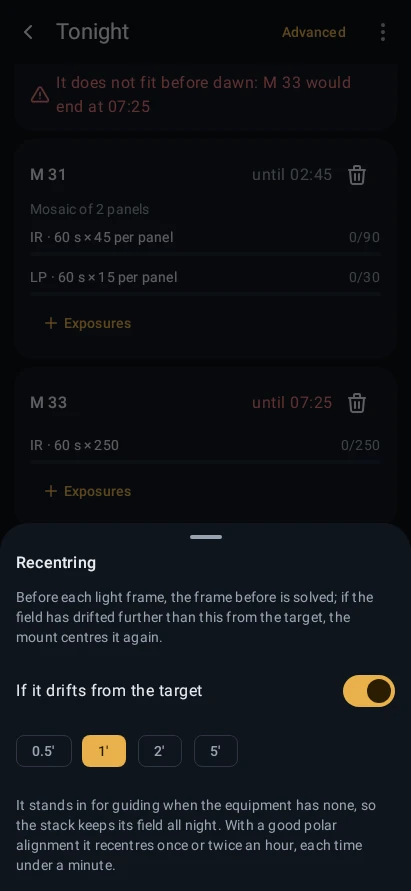
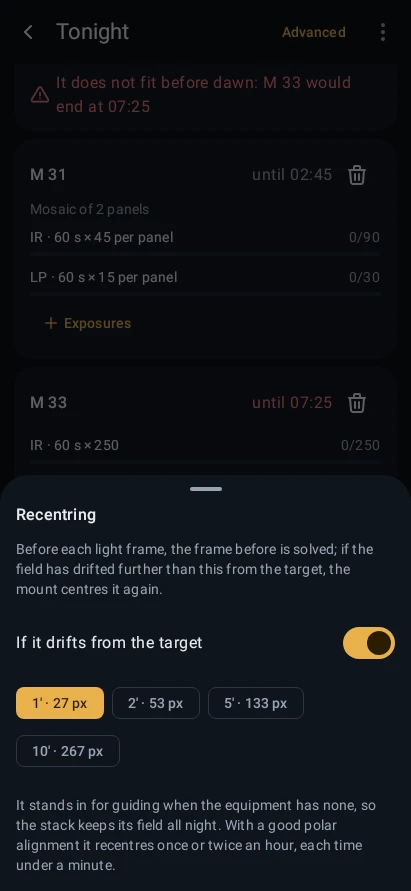
Recentre by the camera: choices in pixels, never under 20 px
N.I.N.A.'s Center After Drift defaults to 10' and shows its distance in
pixels too. Ours defaults to 1', which with a Seestar's wide-angle camera
(55" a pixel) is one pixel, less than any dither moves its field, so it
would recentre after each dither.

The recentring choices are now 1', 2', 5' and 10', each also in pixels of
the connected camera; 0.5' (13 px of the main camera) was less than a
dither moves. The night never recentres for less than 20 px, about the
most a dither moves the field. The sheet says so when that is more than
the choice, and the Rules tag shows what the night runs. The advanced
editor offers the same choices. Manual updated in the ten languages.

diff --git a/shared/ui/src/commonMain/kotlin/app/yacana/ui/sequence/RuleSheets.kt b/shared/ui/src/commonMain/kotlin/app/yacana/ui/sequence/RuleSheets.kt
@@ -4,17 +4,22 @@
 
 package app.yacana.ui.sequence
 
+import androidx.compose.foundation.background
 import androidx.compose.foundation.layout.Arrangement
 import androidx.compose.foundation.layout.ExperimentalLayoutApi
 import androidx.compose.foundation.layout.FlowRow
+import androidx.compose.foundation.layout.Row
+import androidx.compose.foundation.layout.fillMaxWidth
 import androidx.compose.foundation.layout.padding
 import androidx.compose.foundation.layout.size
+import androidx.compose.foundation.shape.RoundedCornerShape
 import androidx.compose.material3.FilterChip
 import androidx.compose.material3.Icon
 import androidx.compose.material3.MaterialTheme
 import androidx.compose.material3.Text
 import androidx.compose.material3.TextButton
 import androidx.compose.runtime.Composable
+import androidx.compose.ui.Alignment
 import androidx.compose.ui.Modifier
 import androidx.compose.ui.unit.dp
 import app.yacana.domain.sequence.DITHER_EVERY
@@ -32,6 +37,7 @@ import app.yacana.ui.resources.heater_intro
 import app.yacana.ui.resources.heater_note
 import app.yacana.ui.resources.heater_switch
 import app.yacana.ui.resources.imaging_dither_hint
+import app.yacana.ui.resources.recentre_floor
 import app.yacana.ui.resources.recentre_intro
 import app.yacana.ui.resources.recentre_note
 import app.yacana.ui.resources.recentre_switch
@@ -41,20 +47,31 @@ import app.yacana.ui.resources.rules_recentre
 import org.jetbrains.compose.resources.stringResource
 import kotlin.math.roundToInt
 
-/** The design's choices: how far the field may drift, every how many frames the lights dither, the heater's power. */
-private val ARCMINUTES = listOf(0.5, 1.0, 2.0, 5.0)
+/**
+ * The design's choices: how far the field may drift, from 1′ (N.I.N.A.'s default is 10′, and 0.5′
+ * is less than a dither moves a Seestar's field), every how many frames the lights dither, the heater's power.
+ */
+private val ARCMINUTES = listOf(1.0, 2.0, 5.0, 10.0)
 private val FRAMES = listOf(1, DITHER_EVERY, 5, 10)
 private val POWERS = listOf(0.25, 0.5, 0.75, 1.0)
 private const val PERCENT = 100
+private const val ARCSEC_PER_ARCMIN = 60.0
+private const val WHOLE_FROM = 10.0
+
+/** Arcminutes as the rules show them: "1", "1,5", and whole from 10, as "19". */
+internal fun arcminutesText(arcminutes: Double, comma: Boolean): String =
+    formatDecimal(arcminutes, if (arcminutes >= WHOLE_FROM || arcminutes % 1.0 == 0.0) 0 else 1, comma)
 
 /**
  * The design "Sequence · recentring": whether tonight's plan recentres when the field drifts from
- * the target, and how far it may drift; the other [triggers] stay as they are. Each change is the
- * plan's, so "Undo" undoes it.
+ * the target, and how far it may drift, in pixels too with the connected camera's [pixelScale], as
+ * N.I.N.A. shows it; when that is under the 20 pixels a dither may move the field, it says the
+ * night waits for those. The other [triggers] stay as they are. Each change is the plan's, so
+ * "Undo" undoes it.
  */
 @OptIn(ExperimentalLayoutApi::class)
 @Composable
-internal fun RecentringSheet(triggers: List<Trigger>, onChange: (List<Trigger>) -> Unit) {
+internal fun RecentringSheet(triggers: List<Trigger>, pixelScale: Double?, onChange: (List<Trigger>) -> Unit) {
     val comma = decimalComma()
     val recentre = triggers.filterIsInstance<Trigger.RecentreAfterDrift>().firstOrNull()
 
@@ -67,15 +84,38 @@ internal fun RecentringSheet(triggers: List<Trigger>, onChange: (List<Trigger>) 
     Text(stringResource(Res.string.rules_recentre), style = MaterialTheme.typography.titleMedium)
     Muted(stringResource(Res.string.recentre_intro))
     Toggle(stringResource(Res.string.recentre_switch), recentre != null) { on ->
-        setting(if (on) Trigger.RecentreAfterDrift(ARCMINUTES[1]) else null)
+        setting(if (on) Trigger.RecentreAfterDrift() else null)
     }
     recentre?.let { current ->
         FlowRow(horizontalArrangement = Arrangement.spacedBy(8.dp)) {
-            ARCMINUTES.forEach { arcminutes ->
+            (ARCMINUTES + current.arcminutes).distinct().sorted().forEach { arcminutes ->
+                val pixels = pixelScale?.let { " · ${(arcminutes * ARCSEC_PER_ARCMIN / it).roundToInt()} px" }.orEmpty()
                 FilterChip(
                     selected = current.arcminutes == arcminutes,
                     onClick = { setting(Trigger.RecentreAfterDrift(arcminutes)) },
-                    label = { Text("${formatDecimal(arcminutes, if (arcminutes % 1.0 == 0.0) 0 else 1, comma)}′") },
+                    label = { Text("${arcminutesText(arcminutes, comma)}′$pixels") },
+                )
+            }
+        }
+        val limit = current.limitArcmin(pixelScale)
+        if (limit > current.arcminutes) {
+            Row(
+                Modifier
+                    .padding(top = 4.dp)
+                    .fillMaxWidth()
+                    .background(MaterialTheme.colorScheme.surfaceContainerHigh, RoundedCornerShape(10.dp))
+                    .padding(10.dp),
+                verticalAlignment = Alignment.CenterVertically,
+            ) {
+                Icon(YacanaIcons.Info, contentDescription = null, tint = MaterialTheme.colorScheme.primary, modifier = Modifier.size(18.dp))
+                Text(
+                    stringResource(
+                        Res.string.recentre_floor,
+                        arcminutesText(limit, comma),
+                        Trigger.RecentreAfterDrift.MIN_PIXELS.roundToInt(),
+                    ),
+                    style = MaterialTheme.typography.bodySmall,
+                    modifier = Modifier.padding(start = 8.dp),
                 )
             }
         }

diff --git a/shared/ui/src/commonMain/kotlin/app/yacana/ui/sequence/TonightCards.kt b/shared/ui/src/commonMain/kotlin/app/yacana/ui/sequence/TonightCards.kt
@@ -282,7 +282,7 @@ internal fun AddTarget(onClick: () -> Unit) {
  */
 @OptIn(ExperimentalLayoutApi::class)
 @Composable
-internal fun Rules(sequence: Sequence, open: RuleSheets?) {
+internal fun Rules(sequence: Sequence, open: RuleSheets?, pixelScale: Double?) {
     val all = sequence.root.flatten()
     val start = (sequence.root.items.firstOrNull() as? Block)?.items.orEmpty()
     val end = (sequence.root.items.lastOrNull() as? Block)?.items.orEmpty()
@@ -295,7 +295,7 @@ internal fun Rules(sequence: Sequence, open: RuleSheets?) {
             all.firstNotNullOfOrNull { (it as? Exposures)?.ditherEvery?.takeIf { every -> every > 0 } }?.let {
                 stringResource(Res.string.rule_dither, it)
             },
-        ) + sequence.planTriggers().filterNot { it is Trigger.DarksAfterTemperature }.map { trigger -> triggerText(trigger) } +
+        ) + sequence.planTriggers().filterNot { it is Trigger.DarksAfterTemperature }.map { trigger -> triggerText(trigger, pixelScale) } +
             listOfNotNull(
                 darksRule(sequence),
                 stringResource(Res.string.rule_calibration).takeIf { end.any { it is Exposures && !it.type.needsLight } },
@@ -322,9 +322,9 @@ internal fun Rules(sequence: Sequence, open: RuleSheets?) {
     }
 }
 
-/** A trigger as its rule: "Autofocus if ΔT > 1 °C". */
+/** A trigger as its rule: "Autofocus if ΔT > 1 °C"; recentring's with the camera's [pixelScale], as the night runs it. */
 @Composable
-private fun triggerText(trigger: Trigger): String {
+private fun triggerText(trigger: Trigger, pixelScale: Double?): String {
     val comma = decimalComma()
     return when (trigger) {
         is Trigger.AutofocusAfterTemperature ->
@@ -352,21 +352,7 @@ private fun triggerText(trigger: Trigger): String {
                 ),
             )
 
-        is Trigger.RecentreAfterDrift ->
-            stringResource(
-                Res.string.rule_recentre,
-                formatDecimal(
-                    trigger.arcminutes,
-                    if (trigger.arcminutes % 1.0 ==
-                        0.0
-                    ) {
-                        0
-                    } else {
-                        1
-                    },
-                    comma,
-                ),
-            )
+        is Trigger.RecentreAfterDrift -> stringResource(Res.string.rule_recentre, arcminutesText(trigger.limitArcmin(pixelScale), comma))
     }
 }
 

diff --git a/shared/domain/src/commonTest/kotlin/app/yacana/domain/sequence/AdvancedSequenceTest.kt b/shared/domain/src/commonTest/kotlin/app/yacana/domain/sequence/AdvancedSequenceTest.kt
@@ -9,6 +9,7 @@ import app.yacana.domain.profile.Location
 import kotlinx.coroutines.delay
 import kotlinx.coroutines.flow.first
 import kotlinx.coroutines.launch
+import kotlinx.coroutines.test.TestScope
 import kotlinx.coroutines.test.runTest
 import kotlinx.io.files.Path
 import kotlin.test.Test
@@ -188,6 +189,42 @@ class AdvancedSequenceTest : RunnerFixture() {
         assertEquals(RunStatus.Finished, run.status, run.error)
         // Before the second light: the first one is solved, and is too far.
         assertEquals(1, events.count { it.first == "sequence_recentre" })
+    }
+
+    /** How many times a light block recentres when the solver finds its frames [arcsec] south of its target, with a limit of 0.25′. */
+    private suspend fun TestScope.recentresAfter(arcsec: Double): Int {
+        val target = SkyTarget("M 31", 0.712, 41.27 + arcsec / 3600)
+        val m31 =
+            Block(
+                "M 31",
+                listOf(Exposures(count = 2, exposureSeconds = 10.0)),
+                target = target,
+                triggers = listOf(Trigger.RecentreAfterDrift(0.25)),
+            )
+
+        val run = runner().runToTheEnd(night(m31))
+
+        assertEquals(RunStatus.Finished, run.status, run.error)
+        return events.count { it.first == "sequence_recentre" }
+    }
+
+    @Test
+    fun aDriftNoFurtherThanADitherMovesTheFieldIsNoReasonToRecentre() = runTest {
+        // More than 0.25′, but under 20 pixels of the camera's 2″.
+        assertEquals(0, recentresAfter(30.0))
+    }
+
+    @Test
+    fun aDriftFurtherThanADitherMovesTheFieldRecentres() = runTest {
+        assertEquals(1, recentresAfter(50.0))
+    }
+
+    @Test
+    fun theLimitIsNeverUnderTwentyPixelsOfTheCamera() {
+        // The Seestar's main camera, and its wide angle, whose 20 pixels are 18.5′.
+        assertEquals(1.0, Trigger.RecentreAfterDrift(1.0).limitArcmin(2.248))
+        assertEquals(18.5, Trigger.RecentreAfterDrift(1.0).limitArcmin(55.5), 1e-9)
+        assertEquals(5.0, Trigger.RecentreAfterDrift(5.0).limitArcmin(null))
     }
 
     @Test

diff --git a/shared/ui/src/commonMain/kotlin/app/yacana/ui/sequence/SequenceTonight.kt b/shared/ui/src/commonMain/kotlin/app/yacana/ui/sequence/SequenceTonight.kt
@@ -123,6 +123,8 @@ fun SequenceTonight(
     val heaterRule by targets.heater.collectAsState()
     val sequence = advanced ?: tonightSequence(list, triggers, equipmentState, darks, heaterRule)
     val heater = connected?.switches?.switches?.let(::dewHeater)
+    // The connected camera's scale, so recentring says its pixels as the night will run it.
+    val pixelScale = connected?.camera?.info?.let { connected.profile.optics.pixelScaleArcsec(it.pixelSizeX) }
     // The profile's focuser runs the triggers, connected or not yet.
     val focuser = profile?.devices?.focuser != null
     var autofocusOpen by remember { mutableStateOf(false) }
@@ -177,6 +179,7 @@ fun SequenceTonight(
                             dither = { ditherOpen = true },
                             heater = heater?.let { { heaterOpen = true } },
                         ).takeUnless { running },
+                        pixelScale,
                     )
                 }
                 if (!running) AddTarget { open(Screen.Root(Section.Sky)) }
@@ -214,7 +217,7 @@ fun SequenceTonight(
     }
 
     if (recentreOpen) {
-        BottomSheet({ recentreOpen = false }) { RecentringSheet(triggers, targets::setTriggers) }
+        BottomSheet({ recentreOpen = false }) { RecentringSheet(triggers, pixelScale, targets::setTriggers) }
     }
 
     if (ditherOpen) {

diff --git a/shared/domain/src/commonMain/kotlin/app/yacana/domain/sequence/Sequence.kt b/shared/domain/src/commonMain/kotlin/app/yacana/domain/sequence/Sequence.kt
@@ -220,7 +220,20 @@ sealed interface Trigger {
      */
     @Serializable
     @SerialName("recentre")
-    data class RecentreAfterDrift(val arcminutes: Double = 1.0) : Trigger
+    data class RecentreAfterDrift(val arcminutes: Double = 1.0) : Trigger {
+        /**
+         * How far it lets the field drift with a camera of [pixelScaleArcsec]: [arcminutes], but
+         * never under [MIN_PIXELS], about the most a dither moves the field. A wide-angle camera's
+         * pixels are of about a minute, so its arcminute would recentre after each dither.
+         */
+        fun limitArcmin(pixelScaleArcsec: Double?): Double = maxOf(arcminutes, (pixelScaleArcsec ?: 0.0) * MIN_PIXELS / ARCSEC_PER_ARCMIN)
+
+        companion object {
+            /** N.I.N.A.'s dither reaches 3 × 5 pixels, and a Seestar's grid 17 of its main camera. */
+            const val MIN_PIXELS = 20.0
+            private const val ARCSEC_PER_ARCMIN = 60.0
+        }
+    }
 
     /**
      * Before a light frame, [count] darks with its exposure, gain, offset and binning, behind the

diff --git a/app/src/test/kotlin/app/yacana/flows/SimpleEditorTest.kt b/app/src/test/kotlin/app/yacana/flows/SimpleEditorTest.kt
@@ -12,6 +12,7 @@ import app.yacana.ui.Section
 import app.yacana.ui.navigation.Screen
 import org.junit.Test
 import kotlin.test.assertEquals
+import kotlin.test.assertFalse
 import kotlin.test.assertTrue
 
 /** "Sequence · simple editor" as it is touched: a target's exposures, removing and undoing, saving tonight. */
@@ -57,6 +58,18 @@ class SimpleEditorTest : FlowTest() {
         toggle(0)
 
         assertTrue(services.targets.triggers.value.none { it is Trigger.RecentreAfterDrift })
+    }
+
+    @Test
+    fun theRecentringSheetSaysItsChoicesInPixelsOfTheConnectedCamera() {
+        show(Section.Sequence, Screen.SequenceTonight, connected = true)
+
+        tap("Recentring")
+
+        // The Seestar's main camera, 2.248″ a pixel, as N.I.N.A.'s Center After Drift says them.
+        assertTrue(appears("1′ · 27 px"))
+        assertTrue(appears("10′ · 267 px"))
+        assertFalse(shows("With this camera", substring = true), "its 1′ is more than the 20 px a dither moves")
     }
 
     @Test

diff --git a/shared/domain/src/commonMain/kotlin/app/yacana/domain/sequence/SequenceRunner.kt b/shared/domain/src/commonMain/kotlin/app/yacana/domain/sequence/SequenceRunner.kt
@@ -453,7 +453,7 @@ class SequenceRunner(
      */
     private suspend fun recentre(scope: Scope) {
         val target = scope.target
-        val limit = scope.recentre.minOfOrNull { it.arcminutes }
+        val limit = scope.recentre.minOfOrNull { it.limitArcmin(steps.pixelScale) }
         if (target == null || limit == null) return
         // The last light is on screen once it is saved.
         capture.sequenceSaved()
@@ -461,7 +461,7 @@ class SequenceRunner(
         solved = last
         val off = centring.driftArcmin(last, target.position)
         if (off != null && off > limit) {
-            journal.log("sequence_recentre", "target" to target.name, "off" to off)
+            journal.log("sequence_recentre", "target" to target.name, "off" to off, "limit" to limit)
             goTo(GoToTarget(centre = true), target)
         }
     }

diff --git a/shared/domain/src/commonMain/kotlin/app/yacana/domain/sequence/SequenceSteps.kt b/shared/domain/src/commonMain/kotlin/app/yacana/domain/sequence/SequenceSteps.kt
@@ -132,6 +132,9 @@ internal class SequenceSteps(private val equipment: EquipmentController, private
     /** The sequence's dithers, around where each target was framed: reset as it goes to one. */
     val dithers = Dither(random)
 
+    /** The camera's scale in arcseconds per pixel, from the profile's optics, or 2″ without them. */
+    val pixelScale: Double get() = connected().pixelScale()
+
     /** Dithers without a guider, as N.I.N.A.'s direct guider; returns where the field is now, around where it began. */
     suspend fun dither(options: DitherOptions): DitherOffset = dithers.move(mount(), options, connected().pixelScale())
 

diff --git a/shared/ui/src/commonMain/kotlin/app/yacana/ui/sequence/advanced/AdvancedFields.kt b/shared/ui/src/commonMain/kotlin/app/yacana/ui/sequence/advanced/AdvancedFields.kt
@@ -292,7 +292,7 @@ private val PERIODS = listOf(15.0, 30.0, 60.0, 120.0)
 
 private val PERCENTS = listOf(5.0, 10.0, 15.0, 20.0, 30.0)
 
-private val ARCMINUTES = listOf(0.5, 1.0, 2.0, 5.0)
+private val ARCMINUTES = listOf(1.0, 2.0, 5.0, 10.0)
 
 /** The darks trigger's choices, as the simple editor's: degrees of the sensor, and darks each time. */
 internal val DARK_DEGREES = listOf(2.0, 3.0, 5.0)

diff --git a/docs/manual/eu/README.md b/docs/manual/eu/README.md
@@ -1114,7 +1114,7 @@ Azpiko botoiek aldatzen dituzte:
 
   Foku automatiko batek huts egiten badu, hurrengo esposizioen zain geratzen dira.
 - **Darkak:** Hastean, sentsorearen tenperatura aldatzen denean, amaitzean biasarekin, eta zenbat aldi bakoitzean ([23. kapitulua](#calibration)).
-- **Berriro zentratzea:** aktibatuta edo ez, eta eremua zenbat desbidera daitekeen: 0,5′, 1′, 2′ edo 5′. Lerrokatze polar onarekin orduko behin edo bitan zentratzen du berriro.
+- **Berriro zentratzea:** aktibatuta edo ez, eta eremua zenbat desbidera daitekeen: 1′, 2′, 5′ edo 10′, bakoitza konektatutako kameraren pixeletan ere bai. Ez du inoiz berriro zentratzen 20 px baino gutxiagogatik, dithering batek mugi dezakeena; angelu zabaleko kamera batekin hori edozein aukera baino gehiago da, eta orriak abisatzen du. Lerrokatze polar onarekin orduko behin edo bitan zentratzen du berriro.
 - **Dithering:** aktibatuta edo ez, eta 1, 3, 5 edo 10 argazkiz behin, helburu guztien light argazkietarako. Dithering bakoitzak muntaia egonkortu arte itxaroten du.
 - **Ihintz-berogailua**, konektatutako ekipoak badu: piztuta edo ez gauean zehar, eta bere potentzia erregulagarria bada. Bateria kontsumitzen du: itzali gau lehor eta epeletan.
 
@@ -1186,7 +1186,7 @@ Katalogoak bilaketa-koadro bat eta motaren araberako botoiak ditu: kamera, muntu
 | **Edukiontzia** | Helburua | Zerua ataleko helburu bat, bere enkoadraketarekin; «Joan eta zentratu» dakar |
 | **Edukiontzia** | Sekuentziala · Paraleloa | Bere aginduak bata bestearen atzetik, edo aldi berean, adibidez ordu baten zain egotea kamera hozten den bitartean |
 | **Abiarazlea** | Foku automatikoa tenperatura aldatzean · noizean behin · iragazkia aldatzean · HFRa handitzen bada | Foku automatiko bat hurrengo argazkiaren aurretik, bere baldintza betetzen denean |
-| **Abiarazlea** | Berriro zentratu desbideratzen bada | Ebatzi eta zuzendu egiten du helburua 0,5′ eta 5′ arteko balio bat baino gehiago desbideratzen denean |
+| **Abiarazlea** | Berriro zentratu desbideratzen bada | Ebatzi eta zuzendu egiten du helburua 1′ eta 10′ arteko balio bat baino gehiago (gutxienez 20 px) desbideratzen denean |
 | **Abiarazlea** | Darkak tenperatura aldatzen bada | Darkak iragazki ilunarekin sentsorea 2, 3 edo 5 °C aldatzen denean, zuzeneko pilaketarako |
 | **Baldintza** | Errepikatu N aldiz · Errepikatu ordu batera arte · Errepikatu altu dagoen bitartean | Edukiontzi osoa errepikatzen du |
 | **Txantiloia** | Helburua foku automatikoarekin · zureak | Zerua ataleko helburu bat, joan eta zentratu, foku automatikoa eta esposizioekin; edo txantiloi gisa gorde duzun edozein bloke |

diff --git a/docs/manual/fr/README.md b/docs/manual/fr/README.md
@@ -1114,7 +1114,7 @@ Les boutons en dessous les modifient :
 
   Si un autofocus échoue, ces règles attendent les poses suivantes.
 - **Darks:** Au début, quand la température du capteur change, à la fin avec le bias, et combien à chaque fois ([chapitre 23](#calibration)).
-- **Recentrage:** activé ou non, et de combien le champ peut dériver : 0,5′, 1′, 2′ ou 5′. Avec une bonne mise en station, il recentre une ou deux fois par heure.
+- **Recentrage:** activé ou non, et de combien le champ peut dériver : 1′, 2′, 5′ ou 10′, chacun aussi en pixels de la caméra connectée. Il ne recentre jamais pour moins de 20 px, ce que peut déplacer un dithering ; avec une caméra grand angle, c'est plus que tous les choix, et la feuille le signale. Avec une bonne mise en station, il recentre une ou deux fois par heure.
 - **Dithering:** activé ou non, et toutes les 1, 3, 5 ou 10 images, pour les lights de toutes les cibles. Chaque dithering attend que la monture se stabilise.
 - **Résistance chauffante**, si l'équipement connecté en a une : allumée ou non pendant la nuit, et sa puissance si elle est réglable. Elle consomme de la batterie : éteignez-la par nuits sèches et douces.
 
@@ -1186,7 +1186,7 @@ Le catalogue a une zone de recherche et des boutons par type : caméra, monture
 | **Conteneur** | Cible | Une cible depuis Ciel, avec son cadrage ; vient avec « Aller et centrer » |
 | **Conteneur** | Séquentiel · Parallèle | Ses instructions l'une après l'autre, ou en même temps, comme attendre une heure pendant que la caméra refroidit |
 | **Déclencheur** | Autofocus si la température change · périodique · au changement de filtre · si le HFR augmente | Un autofocus avant la prochaine image quand sa condition est remplie |
-| **Déclencheur** | Recentrer en cas de dérive | Résout et corrige quand la cible dérive de plus de 0,5′ à 5′ |
+| **Déclencheur** | Recentrer en cas de dérive | Résout et corrige quand la cible dérive de plus de 1′ à 10′ (20 px au moins) |
 | **Déclencheur** | Darks si la température change | Des darks avec le filtre opaque quand le capteur change de 2, 3 ou 5 °C, pour l'empilement en direct |
 | **Condition** | Répéter N fois · Répéter jusqu'à une heure · Répéter tant qu'elle est haute | Répète tout le conteneur |
 | **Modèle** | Cible avec autofocus · les vôtres | Une cible depuis Ciel avec aller et centrer, autofocus et poses ; ou tout bloc que vous avez enregistré comme modèle |

diff --git a/docs/manual/de/README.md b/docs/manual/de/README.md
@@ -1114,7 +1114,7 @@ Die Schaltflächen darunter ändern sie:
 
   Schlägt ein Autofokus fehl, warten sie auf die nächsten Belichtungen.
 - **Darks:** Am Anfang, wenn sich die Sensortemperatur ändert, am Ende mit dem Bias, und wie viele jedes Mal ([Kapitel 23](#calibration)).
-- **Neu zentrieren:** an oder aus, und wie weit das Feld driften darf: 0,5′, 1′, 2′ oder 5′. Mit guter Polausrichtung zentriert es ein- oder zweimal pro Stunde neu.
+- **Neu zentrieren:** an oder aus, und wie weit das Feld driften darf: 1′, 2′, 5′ oder 10′, jeweils auch in Pixeln der verbundenen Kamera. Unter 20 px, etwa so viel, wie ein Dithering bewegt, zentriert es nie neu; bei einer Weitwinkelkamera ist das mehr als jede Auswahl, und das Blatt sagt es. Mit guter Polausrichtung zentriert es ein- oder zweimal pro Stunde neu.
 - **Dithering:** an oder aus, und alle 1, 3, 5 oder 10 Aufnahmen, für die Lights aller Ziele. Jedes Dithering wartet, bis die Montierung zur Ruhe kommt.
 - **Tauheizung**, wenn die verbundene Ausrüstung eine hat: an oder aus während der Nacht, und ihre Leistung, wenn sie regelbar ist. Sie verbraucht Akku: In trockenen, milden Nächten ausschalten.
 
@@ -1186,7 +1186,7 @@ Der Katalog hat ein Suchfeld und Schaltflächen nach Art: Kamera, Montierung, Fo
 | **Container** | Ziel | Ein Ziel aus Himmel, mit seinem Bildausschnitt; kommt mit «Anfahren und zentrieren» |
 | **Container** | Sequenziell · Parallel | Seine Anweisungen eine nach der anderen oder gleichzeitig, etwa auf eine Uhrzeit warten, während die Kamera kühlt |
 | **Trigger** | Autofokus bei Temperaturänderung · regelmäßig · bei Filterwechsel · wenn der HFR steigt | Ein Autofokus vor der nächsten Aufnahme, wenn seine Bedingung zutrifft |
-| **Trigger** | Neu zentrieren bei Drift | Löst und korrigiert, wenn das Ziel um mehr als 0,5′ bis 5′ driftet |
+| **Trigger** | Neu zentrieren bei Drift | Löst und korrigiert, wenn das Ziel um mehr als 1′ bis 10′ (mindestens 20 px) driftet |
 | **Trigger** | Darks bei Temperaturänderung | Darks mit dem Dunkelfilter, wenn sich der Sensor um 2, 3 oder 5 °C ändert, für den Live-Stack |
 | **Bedingung** | N-mal wiederholen · Bis Uhrzeit wiederholen · Wiederholen, solange hoch | Wiederholt den ganzen Container |
 | **Vorlage** | Ziel mit Autofokus · deine eigenen | Ein Ziel aus Himmel mit Anfahren und Zentrieren, Autofokus und Belichtungen; oder jeder Block, den du als Vorlage gespeichert hast |
